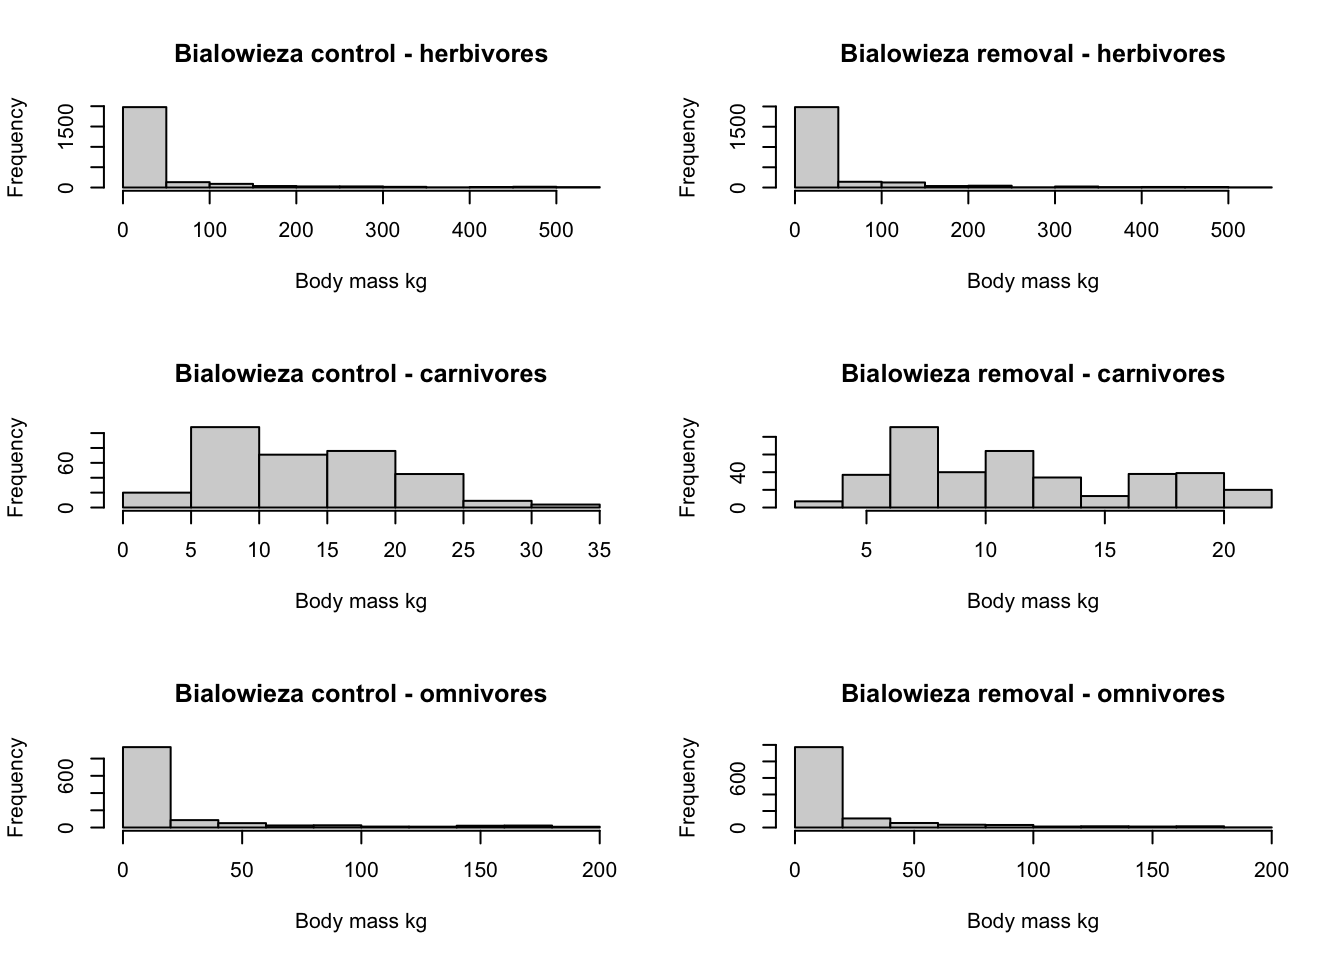
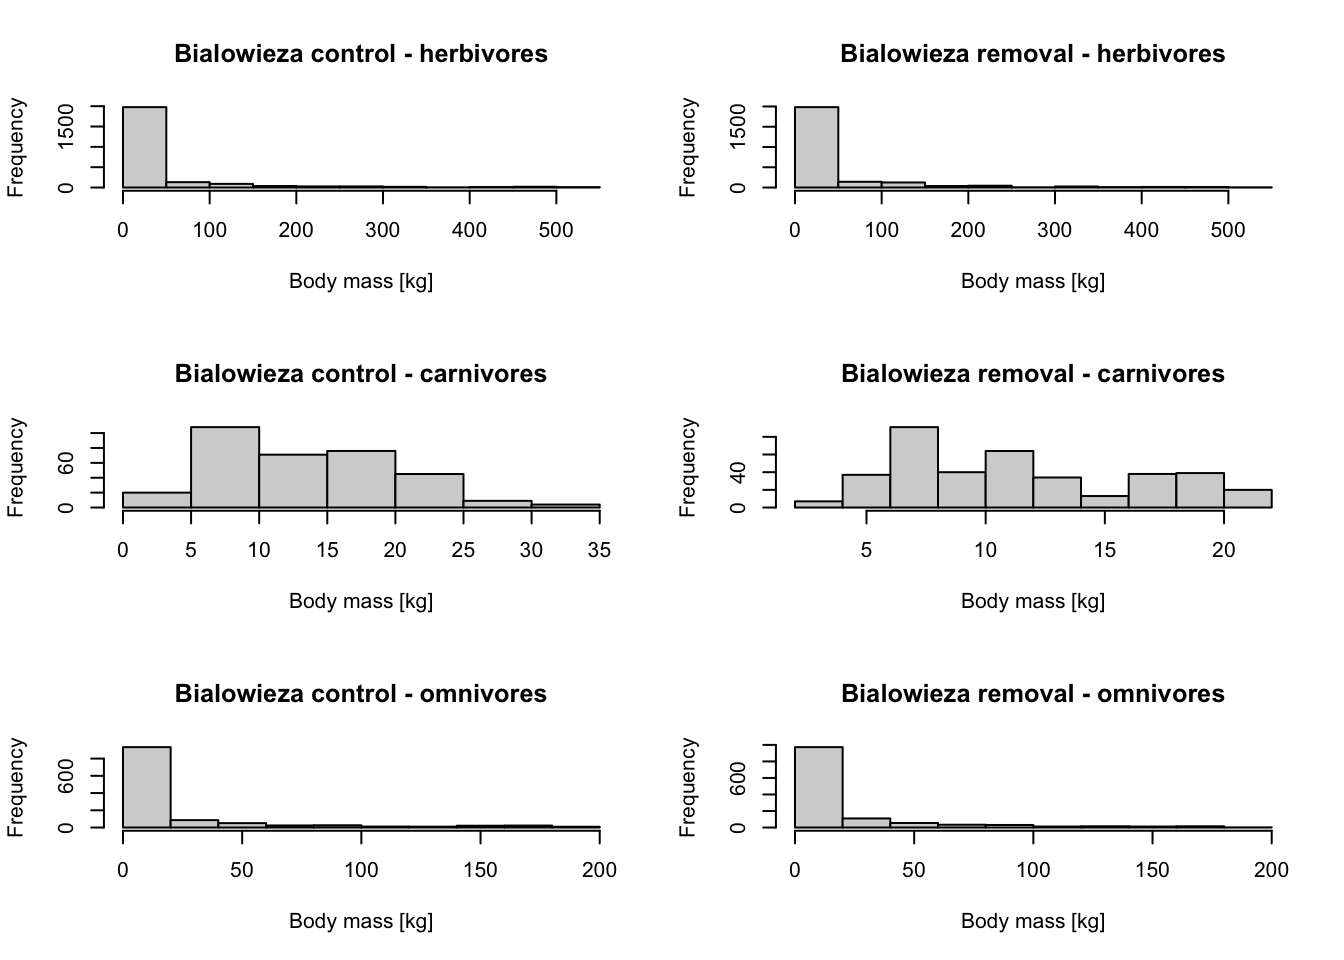
minor edit

diff --git a/12_Mad_carnivores.html b/12_Mad_carnivores.html
@@ -783,20 +783,20 @@ plot_foodweb(mres_control_B, max_flows = 5)</code></pre>
 <p><img src="12_Mad_carnivores_files/figure-html/unnamed-chunk-12-4.png" width="672" /></p>
 <pre class="r"><code># Plot body mass densities
 par(mfcol=c(3,2))
-hist(subset(mres_control_B$cohorts, FunctionalGroupIndex==0)$AdultMass/1000, main=&#39;Bialowieza control - herbivores&#39;, xlab=&#39;Body mass kg&#39;)
-hist(subset(mres_control_B$cohorts, FunctionalGroupIndex==1)$AdultMass/1000, main=&#39;Bialowieza control - carnivores&#39;, xlab=&#39;Body mass kg&#39;)
-hist(subset(mres_control_B$cohorts, FunctionalGroupIndex==2)$AdultMass/1000, main=&#39;Bialowieza control - omnivores&#39;, xlab=&#39;Body mass kg&#39;)
-hist(subset(mres_removal_B$cohorts, FunctionalGroupIndex==0)$AdultMass/1000, main=&#39;Bialowieza removal - herbivores&#39;, xlab=&#39;Body mass kg&#39;)
-hist(subset(mres_removal_B$cohorts, FunctionalGroupIndex==1)$AdultMass/1000, main=&#39;Bialowieza removal - carnivores&#39;, xlab=&#39;Body mass kg&#39;)
-hist(subset(mres_removal_B$cohorts, FunctionalGroupIndex==2)$AdultMass/1000, main=&#39;Bialowieza removal - omnivores&#39;, xlab=&#39;Body mass kg&#39;)</code></pre>
+hist(subset(mres_control_B$cohorts, FunctionalGroupIndex==0)$AdultMass/1000, main=&#39;Bialowieza control - herbivores&#39;, xlab=&#39;Body mass [kg]&#39;)
+hist(subset(mres_control_B$cohorts, FunctionalGroupIndex==1)$AdultMass/1000, main=&#39;Bialowieza control - carnivores&#39;, xlab=&#39;Body mass [kg]&#39;)
+hist(subset(mres_control_B$cohorts, FunctionalGroupIndex==2)$AdultMass/1000, main=&#39;Bialowieza control - omnivores&#39;, xlab=&#39;Body mass [kg]&#39;)
+hist(subset(mres_removal_B$cohorts, FunctionalGroupIndex==0)$AdultMass/1000, main=&#39;Bialowieza removal - herbivores&#39;, xlab=&#39;Body mass [kg]&#39;)
+hist(subset(mres_removal_B$cohorts, FunctionalGroupIndex==1)$AdultMass/1000, main=&#39;Bialowieza removal - carnivores&#39;, xlab=&#39;Body mass [kg]&#39;)
+hist(subset(mres_removal_B$cohorts, FunctionalGroupIndex==2)$AdultMass/1000, main=&#39;Bialowieza removal - omnivores&#39;, xlab=&#39;Body mass [kg]&#39;)</code></pre>
 <p><img src="12_Mad_carnivores_files/figure-html/unnamed-chunk-12-5.png" width="672" /></p>
 <pre class="r"><code>par(mfcol=c(3,2))
-hist(subset(mres_control_S$cohorts, FunctionalGroupIndex==0)$AdultMass/1000, main=&#39;Serengeti control - herbivores&#39;, xlab=&#39;Body mass kg&#39;)
-hist(subset(mres_control_S$cohorts, FunctionalGroupIndex==1)$AdultMass/1000, main=&#39;Serengeti control - carnivores&#39;, xlab=&#39;Body mass kg&#39;)
-hist(subset(mres_control_S$cohorts, FunctionalGroupIndex==2)$AdultMass/1000, main=&#39;Serengeti control - omnivores&#39;, xlab=&#39;Body mass kg&#39;)
-hist(subset(mres_removal_S$cohorts, FunctionalGroupIndex==0)$AdultMass/1000, main=&#39;Serengeti removal - herbivores&#39;, xlab=&#39;Body mass kg&#39;)
-hist(subset(mres_removal_S$cohorts, FunctionalGroupIndex==1)$AdultMass/1000, main=&#39;Serengeti removal - carnivores&#39;, xlab=&#39;Body mass kg&#39;)
-hist(subset(mres_removal_S$cohorts, FunctionalGroupIndex==2)$AdultMass/1000, main=&#39;Serengeti removal - omnivores&#39;, xlab=&#39;Body mass kg&#39;)</code></pre>
+hist(subset(mres_control_S$cohorts, FunctionalGroupIndex==0)$AdultMass/1000, main=&#39;Serengeti control - herbivores&#39;, xlab=&#39;Body mass [kg]&#39;)
+hist(subset(mres_control_S$cohorts, FunctionalGroupIndex==1)$AdultMass/1000, main=&#39;Serengeti control - carnivores&#39;, xlab=&#39;Body mass [kg]&#39;)
+hist(subset(mres_control_S$cohorts, FunctionalGroupIndex==2)$AdultMass/1000, main=&#39;Serengeti control - omnivores&#39;, xlab=&#39;Body mass [kg]&#39;)
+hist(subset(mres_removal_S$cohorts, FunctionalGroupIndex==0)$AdultMass/1000, main=&#39;Serengeti removal - herbivores&#39;, xlab=&#39;Body mass [kg]&#39;)
+hist(subset(mres_removal_S$cohorts, FunctionalGroupIndex==1)$AdultMass/1000, main=&#39;Serengeti removal - carnivores&#39;, xlab=&#39;Body mass [kg]&#39;)
+hist(subset(mres_removal_S$cohorts, FunctionalGroupIndex==2)$AdultMass/1000, main=&#39;Serengeti removal - omnivores&#39;, xlab=&#39;Body mass [kg]&#39;)</code></pre>
 <p><img src="12_Mad_carnivores_files/figure-html/unnamed-chunk-12-6.png" width="672" /></p>
 <div class="alert alert-info">
 <p><strong>Task: extend analyses</strong></p>
